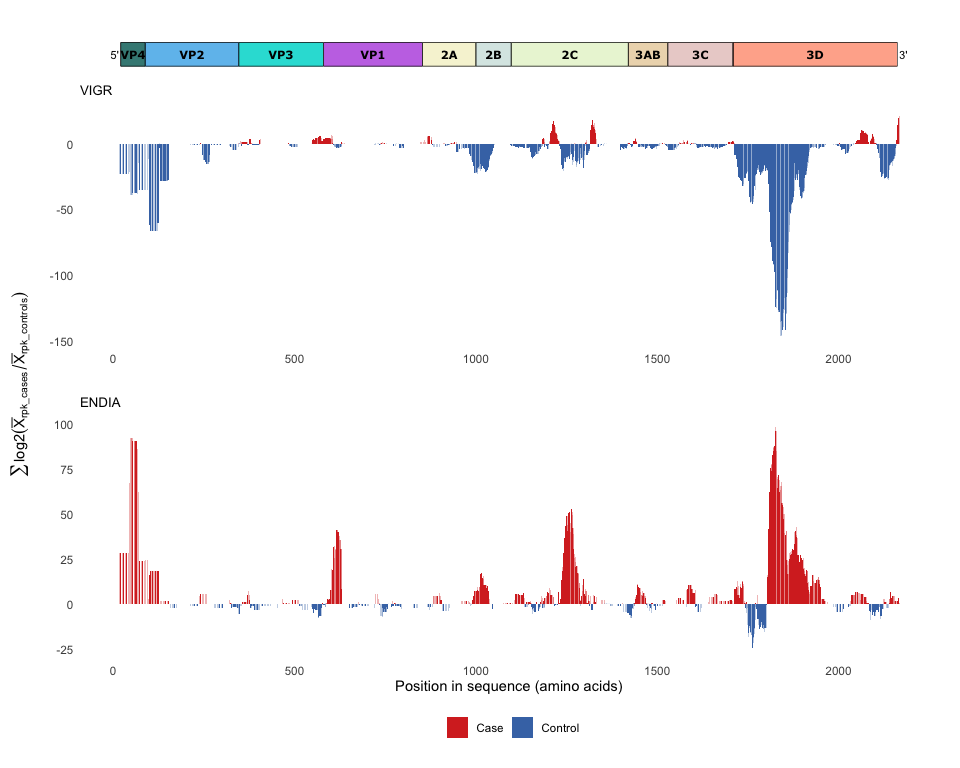
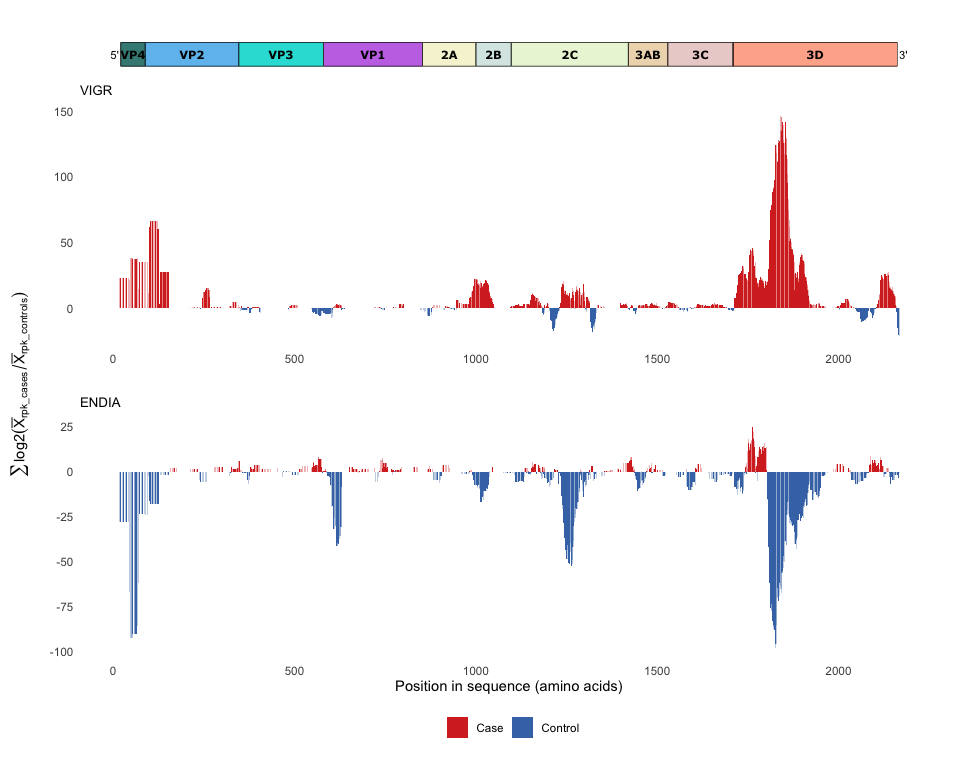
fixed case enrichment calculation

diff --git a/01_figure_01_CXVB_antigen_mapping.md b/01_figure_01_CXVB_antigen_mapping.md
@@ -280,7 +280,7 @@ Using traditional fold change (division instead of subtraction)
 
 ``` r
 endia_proper_fc_plot <- endia_fc %>%  
-  mutate(proper_fold_change = log2((mean_rpk_per_pepControl + 1) / (mean_rpk_per_pepCase + 1))) %>% 
+  mutate(proper_fold_change = log2((mean_rpk_per_pepCase + 1) / (mean_rpk_per_pepControl + 1))) %>% 
   mutate(Condition = if_else(proper_fold_change > 0, "Case", "Control")) %>% 
    ggplot(aes(x = (start + end) / 2, y = proper_fold_change, fill = Condition)) +
     geom_bar(stat = "identity") +
@@ -291,7 +291,7 @@ endia_proper_fc_plot <- endia_fc %>%
   ggtitle("ENDIA")
 
 vigr_proper_fc_plot <- vigr_fc %>%
-  mutate(proper_fold_change = log2((mean_rpk_per_pepControl + 1) / (mean_rpk_per_pepCase + 1))) %>% 
+  mutate(proper_fold_change = log2((mean_rpk_per_pepCase + 1) / (mean_rpk_per_pepControl + 1))) %>% 
   mutate(Condition = if_else(proper_fold_change > 0, "Case", "Control")) %>% 
    ggplot(aes(x = (start + end) / 2, y = proper_fold_change, fill = Condition)) +
     geom_bar(stat = "identity") +
@@ -322,7 +322,7 @@ Using the `moving_sum` calculated on `proper_fold_change`
 
 ``` r
 vigr_proper_fc <- vigr_fc %>%
-  mutate(proper_fold_change = log2((mean_rpk_per_pepControl + 1) / (mean_rpk_per_pepCase + 1))) %>% 
+  mutate(proper_fold_change = log2((mean_rpk_per_pepCase + 1) / (mean_rpk_per_pepControl + 1))) %>% 
   mutate(Condition = if_else(proper_fold_change > 0, "Case", "Control")) 
 
 vigr_proper_fc_ms <- calculate_moving_sum(vigr_proper_fc, value_column = proper_fold_change, win_size = 32, step_size = 4)
@@ -332,7 +332,7 @@ vigr_proper_fc_ms_plot <- vigr_proper_fc_ms %>%
     ggtitle("VIGR")
 
 endia_proper_fc <- endia_fc %>%  
-  mutate(proper_fold_change = log2((mean_rpk_per_pepControl + 1) / (mean_rpk_per_pepCase + 1))) %>% 
+  mutate(proper_fold_change = log2((mean_rpk_per_pepCase + 1) / (mean_rpk_per_pepControl + 1))) %>% 
   mutate(Condition = if_else(proper_fold_change > 0, "Case", "Control"))
 
 endia_proper_fc_ms <- calculate_moving_sum(endia_proper_fc, value_column = proper_fold_change, win_size = 32, step_size = 4)
@@ -363,8 +363,7 @@ As above but without using `log2`
 
 ``` r
 vigr_proper_fc_nl <- vigr_fc %>%
- # mutate(proper_fold_change = (mean_rpk_per_pepControl + 1) / (mean_rpk_per_pepCase + 1)) %>% 
-   mutate(proper_fold_change = mean_rpk_per_pepControl / mean_rpk_per_pepCase) %>% 
+   mutate(proper_fold_change = mean_rpk_per_pepCase / mean_rpk_per_pepControl) %>% 
   mutate(Condition = if_else(proper_fold_change > 0, "Case", "Control")) 
 
 vigr_proper_fc_nl_ms <- calculate_moving_sum(vigr_proper_fc, value_column = proper_fold_change, win_size = 32, step_size = 4)
@@ -374,8 +373,7 @@ vigr_proper_fc_ms_nl_plot <- vigr_proper_fc_nl_ms %>%
     ggtitle("VIGR")
 
 endia_proper_fc_nl <- endia_fc %>%  
-  #mutate(proper_fold_change = (mean_rpk_per_pepControl + 1) / (mean_rpk_per_pepCase + 1)) %>% 
-  mutate(proper_fold_change = mean_rpk_per_pepControl / mean_rpk_per_pepCase) %>% 
+  mutate(proper_fold_change = mean_rpk_per_pepCase / mean_rpk_per_pepControl) %>% 
   mutate(Condition = if_else(proper_fold_change > 0, "Case", "Control"))
 
 endia_proper_fc_nl_ms <- calculate_moving_sum(endia_proper_fc_nl, value_column = proper_fold_change, win_size = 32, step_size = 4)
